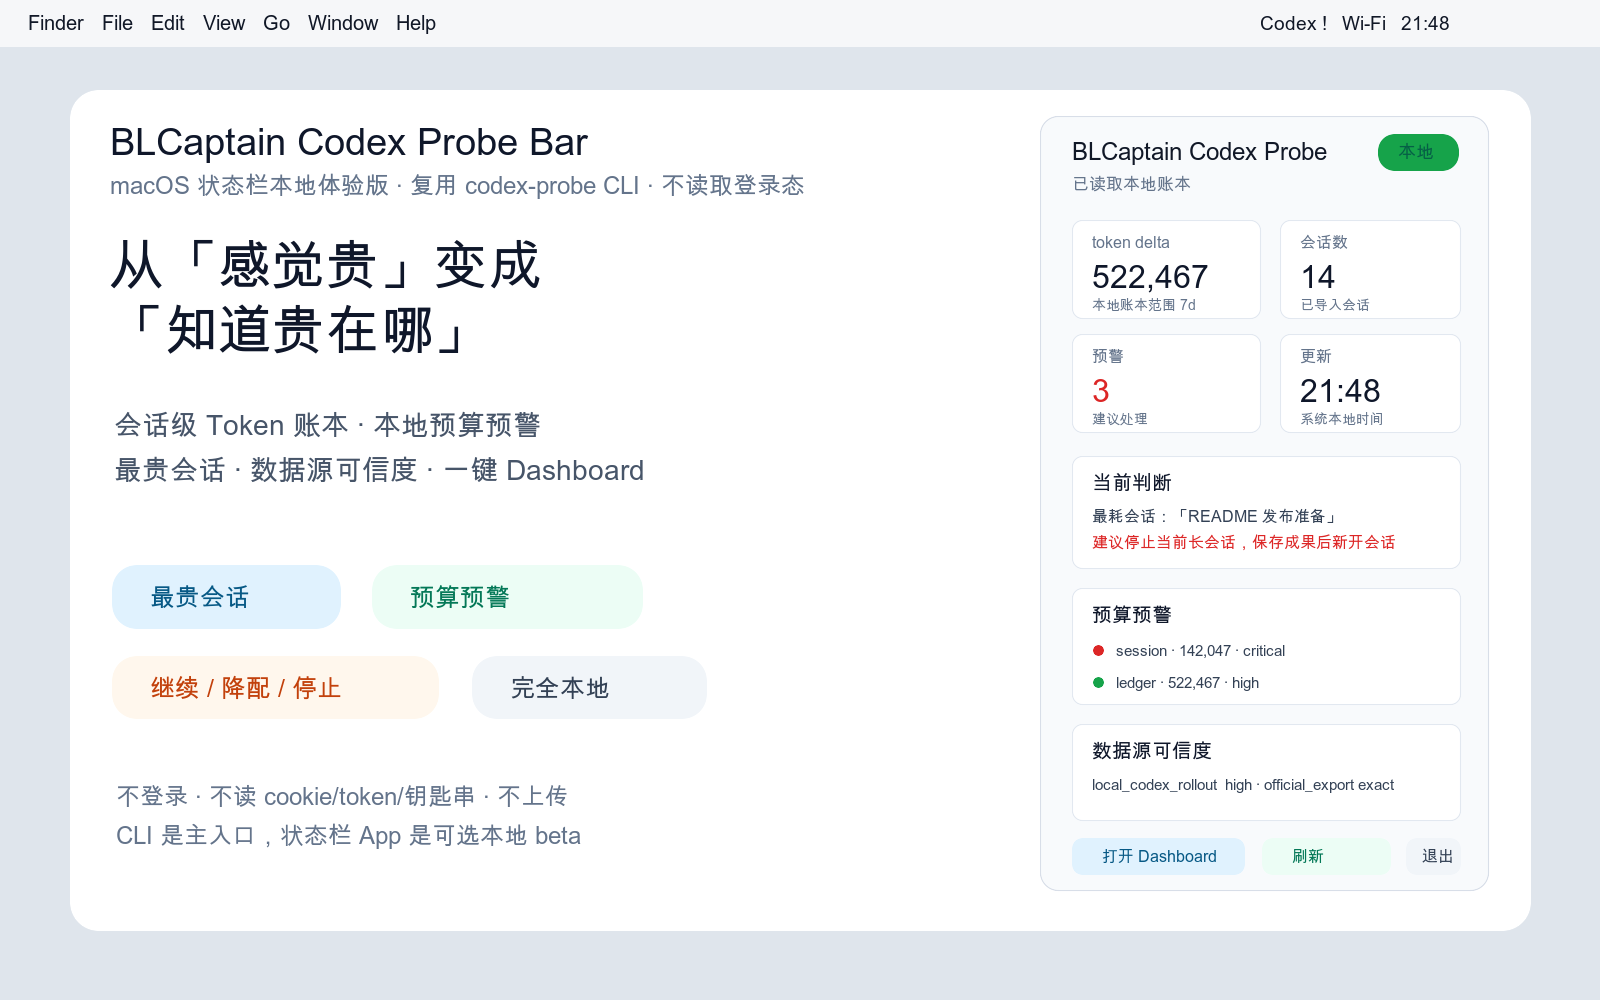
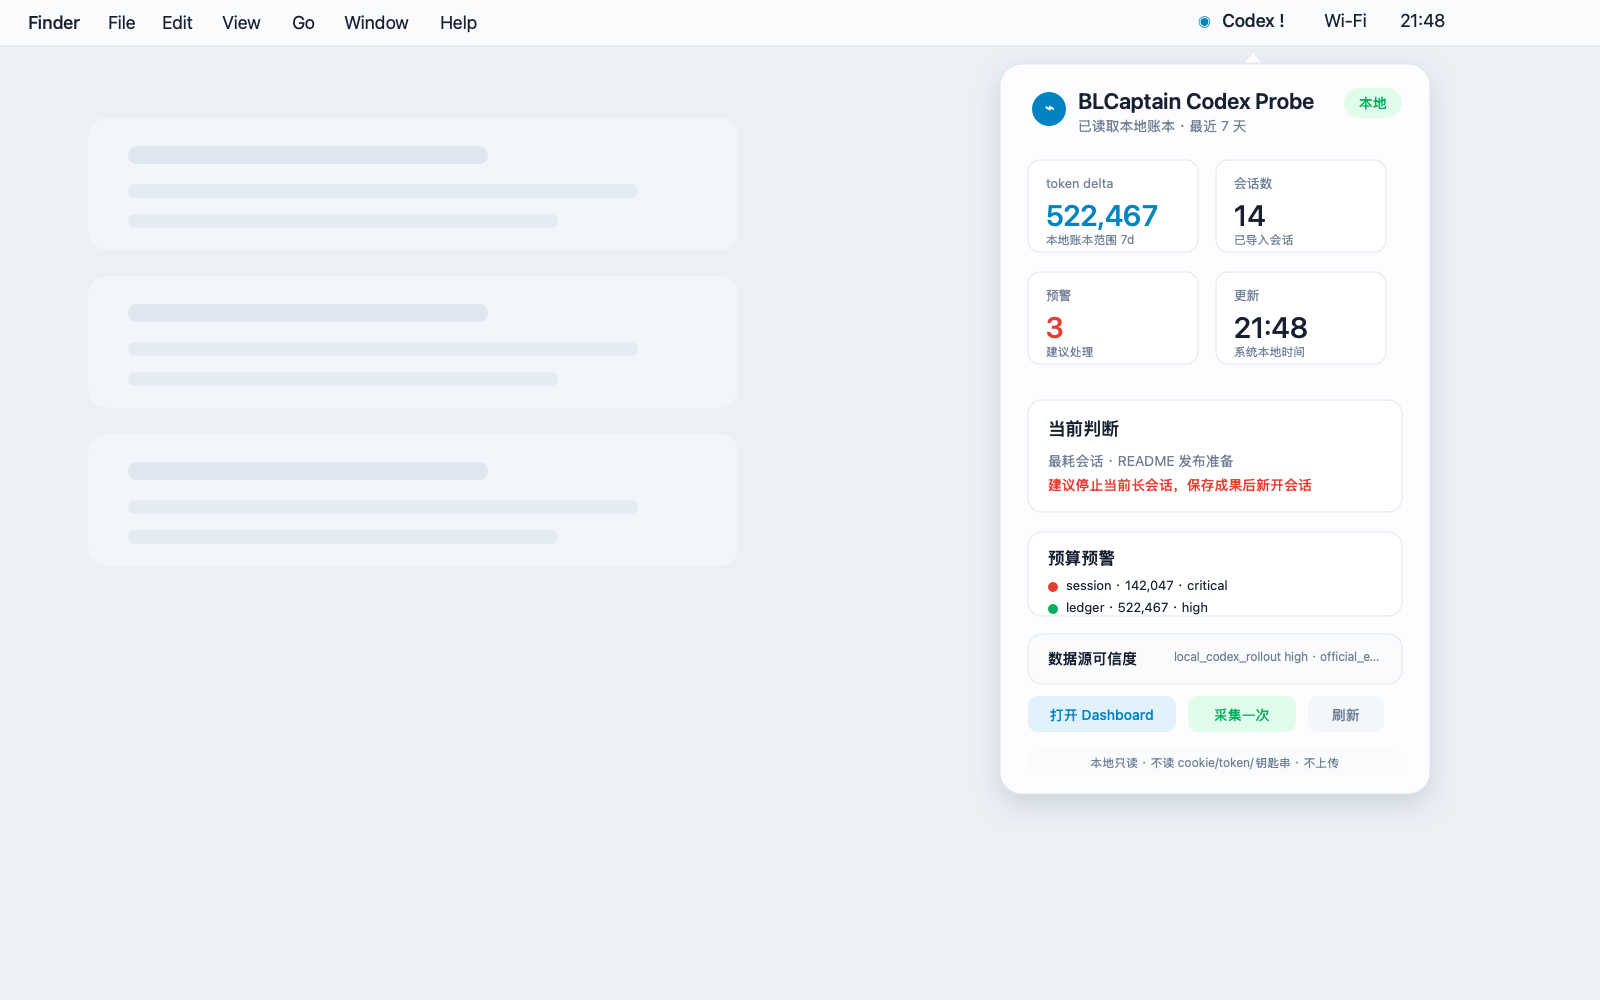
docs: replace menu bar app screenshot

diff --git a/README.en.md b/README.en.md
@@ -94,7 +94,7 @@ open build/CodexProbeBar.app
 ```
 
 <p>
-  <img src="assets/screenshots/macos-menubar-app.png" alt="BLCaptain Codex Probe Bar macOS local build" width="100%">
+  <img src="assets/screenshots/macos-menubar-app.png" alt="BLCaptain Codex Probe Bar macOS menu bar popover" width="100%">
 </p>
 
 See [macOS menu bar app](docs/MACOS_MENUBAR_APP.md).
@@ -522,7 +522,7 @@ Before v0.9.0 release:
 - JSON / HTML report contract tests cover sessions, ledger, project summary, weekly report, timeline, alerts, task report, confidence report, privacy report, and dashboard.
 - Skill inspection covers automatic installation, login/billing bypass, data exfiltration, request interception, impersonation, and overpromise risks.
 - Install docs cover Codex desktop, repository scripts, uvx, pipx, and a Homebrew Formula draft.
-- Menu bar app / desktop component evaluation explains a product path that does not read login state.
+- The menu bar app is implemented as a local status-bar entry, reusing CLI JSON output without reading login state.
 - Every session has a source and `exact/high/medium/low` confidence.
 - The CLI can delete local ledger business data.
 - Reports do not leak full API keys, cookies, tokens, emails, phone numbers, or private user paths.
@@ -532,7 +532,7 @@ Before v0.9.0 release:
 
 - Keep collecting more real redacted rollout samples and calibrate across Codex versions.
 - Publish an official PyPI package, then publish a Homebrew tap after validation.
-- Decide whether to build a thin macOS menu bar app based on user feedback.
+- Improve the macOS menu bar app with preferences, login-item setup, and signed distribution.
 - Add finer trend charts, threshold configuration files, and exportable dashboard JSON schemas.
 
 ## FAQ

diff --git a/README.md b/README.md
@@ -94,7 +94,7 @@ open build/CodexProbeBar.app
 ```
 
 <p>
-  <img src="assets/screenshots/macos-menubar-app.png" alt="BLCaptain Codex Probe Bar macOS 状态栏源码本地构建入口" width="100%">
+  <img src="assets/screenshots/macos-menubar-app.png" alt="BLCaptain Codex Probe Bar macOS 状态栏下拉面板" width="100%">
 </p>
 
 详见 [macOS 状态栏 App](docs/MACOS_MENUBAR_APP.md)。
@@ -522,7 +522,7 @@ BLCaptain-Codex-Probe-CLI/
 - JSON / HTML 报告契约测试覆盖 sessions、ledger、project summary、weekly report、timeline、alerts、task report、confidence report、privacy report 和 dashboard。
 - Skill 体检规则覆盖自动安装、绕登录/计费、外传数据、请求拦截、伪装真人和过度承诺。
 - 安装文档包含 Codex 桌面版、仓库脚本、uvx、pipx 和 Homebrew Formula 草案。
-- 菜单栏 App / 桌面组件评估说明不读取登录态的产品路径。
+- 状态栏 App 已实现为本地菜单栏入口，复用 CLI JSON 输出，不读取登录态。
 - 每条会话都有数据源和 `exact/high/medium/low` 置信度。
 - 能删除本地账本业务数据。
 - 报告不泄露完整 API key、cookie、token、邮箱、手机号或用户私密路径。
@@ -532,7 +532,7 @@ BLCaptain-Codex-Probe-CLI/
 
 - 持续收集更多真实脱敏 rollout 样本，校准不同 Codex 版本的数据结构。
 - 正式发布 PyPI 包，并在验证后发布 Homebrew tap。
-- 根据用户反馈决定是否实现极薄 macOS 菜单栏 App。
+- 优化 macOS 状态栏 App 的偏好设置、启动项和已签名分发路径。
 - 增加更细的趋势图、阈值配置文件和可导出的 Dashboard JSON schema。
 
 ## FAQ

diff --git a/docs/MACOS_MENUBAR_APP.md b/docs/MACOS_MENUBAR_APP.md
@@ -95,7 +95,7 @@ App 会优先读取环境变量，其次读取 app bundle 内的 `Resources/defa
 
 ## 当前发布边界
 
-第一版状态栏 App 是本地构建 级桌面入口。本地构建出来的 `.app` 默认未签名、未公证，不能承诺普通用户下载后完全没有 Gatekeeper 提示。
+当前状态栏 App 是源码本地构建入口。本地构建出来的 `.app` 默认未签名、未公证，不能承诺普通用户下载后完全没有 Gatekeeper 提示。
 
 当前状态栏 App 不包含：
 